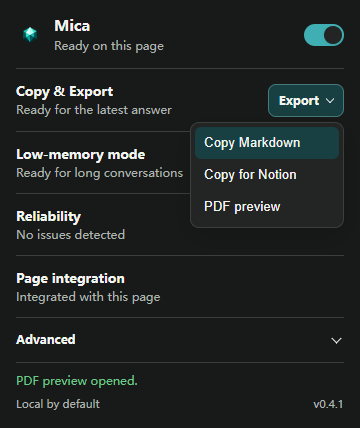
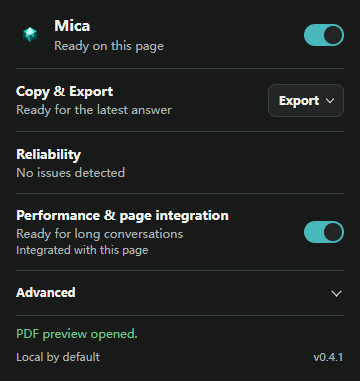
fix: align low-memory popup contract

diff --git a/dist/mica-dev/popup/index.html b/dist/mica-dev/popup/index.html
@@ -38,17 +38,6 @@
 
         <div class="capability-row">
           <div>
-            <h2>Low-memory mode</h2>
-            <p id="lowMemoryStatus">Ready for long conversations.</p>
-          </div>
-          <label class="switch" title="Keep recent turns active in long conversations">
-            <input id="lowMemory" type="checkbox" checked aria-label="Enable low-memory mode">
-            <span aria-hidden="true"></span>
-          </label>
-        </div>
-
-        <div class="capability-row">
-          <div>
             <h2>Reliability</h2>
             <p id="reliabilityStatus">Watching for delivery issues.</p>
           </div>
@@ -56,9 +45,14 @@
 
         <div class="capability-row">
           <div>
-            <h2>Page integration</h2>
-            <p id="integrationStatus">Native handling</p>
+            <h2>Performance &amp; page integration</h2>
+            <p id="lowMemoryStatus">Ready for long conversations.</p>
+            <p id="integrationStatus" class="secondary-status">Native handling</p>
           </div>
+          <label class="switch" title="Keep recent turns active in long conversations">
+            <input id="lowMemory" type="checkbox" checked aria-label="Enable low-memory mode">
+            <span aria-hidden="true"></span>
+          </label>
         </div>
       </section>
 

diff --git a/extension/popup/index.html b/extension/popup/index.html
@@ -38,17 +38,6 @@
 
         <div class="capability-row">
           <div>
-            <h2>Low-memory mode</h2>
-            <p id="lowMemoryStatus">Ready for long conversations.</p>
-          </div>
-          <label class="switch" title="Keep recent turns active in long conversations">
-            <input id="lowMemory" type="checkbox" checked aria-label="Enable low-memory mode">
-            <span aria-hidden="true"></span>
-          </label>
-        </div>
-
-        <div class="capability-row">
-          <div>
             <h2>Reliability</h2>
             <p id="reliabilityStatus">Watching for delivery issues.</p>
           </div>
@@ -56,9 +45,14 @@
 
         <div class="capability-row">
           <div>
-            <h2>Page integration</h2>
-            <p id="integrationStatus">Native handling</p>
+            <h2>Performance &amp; page integration</h2>
+            <p id="lowMemoryStatus">Ready for long conversations.</p>
+            <p id="integrationStatus" class="secondary-status">Native handling</p>
           </div>
+          <label class="switch" title="Keep recent turns active in long conversations">
+            <input id="lowMemory" type="checkbox" checked aria-label="Enable low-memory mode">
+            <span aria-hidden="true"></span>
+          </label>
         </div>
       </section>
 

diff --git a/dist/mica-dev/popup/popup.css b/dist/mica-dev/popup/popup.css
@@ -16,6 +16,7 @@ main { padding:16px; }
 .capability-row { align-items:center; display:flex; gap:12px; justify-content:space-between; min-height:62px; padding:12px 0; }
 .capability-row + .capability-row { border-top:1px solid var(--border); }
 .capability-row h2 { font-size:13px; font-weight:650; line-height:18px; }
+.capability-row .secondary-status { font-size:11px; line-height:15px; }
 .action-menu { flex:0 0 auto; position:relative; }
 .action-menu > summary { background:var(--surface); border:1px solid var(--border); border-radius:8px; cursor:pointer; font-weight:600; list-style:none; min-height:32px; padding:7px 24px 7px 10px; position:relative; }
 .action-menu > summary::-webkit-details-marker { display:none; }

diff --git a/extension/popup/popup.css b/extension/popup/popup.css
@@ -16,6 +16,7 @@ main { padding:16px; }
 .capability-row { align-items:center; display:flex; gap:12px; justify-content:space-between; min-height:62px; padding:12px 0; }
 .capability-row + .capability-row { border-top:1px solid var(--border); }
 .capability-row h2 { font-size:13px; font-weight:650; line-height:18px; }
+.capability-row .secondary-status { font-size:11px; line-height:15px; }
 .action-menu { flex:0 0 auto; position:relative; }
 .action-menu > summary { background:var(--surface); border:1px solid var(--border); border-radius:8px; cursor:pointer; font-weight:600; list-style:none; min-height:32px; padding:7px 24px 7px 10px; position:relative; }
 .action-menu > summary::-webkit-details-marker { display:none; }

diff --git a/dist/mica-dev/popup/popup.js b/dist/mica-dev/popup/popup.js
@@ -121,9 +121,9 @@ function render(status) {
         ? "Full history restored for this conversation"
         : lowMemory?.state === "restore_required"
           ? "Reload when ready to restore full history"
-        : lowMemory?.state === "degraded"
-          ? "Waiting for a safely recognized long thread"
-          : "Ready for long conversations";
+          : lowMemory?.state === "degraded"
+            ? "Waiting for a safely recognized long thread"
+            : "Ready for long conversations";
   document.documentElement.dataset.enabled = active ? "true" : "false";
 }
 

diff --git a/extension/popup/popup.ts b/extension/popup/popup.ts
@@ -121,9 +121,9 @@ function render(status) {
         ? "Full history restored for this conversation"
         : lowMemory?.state === "restore_required"
           ? "Reload when ready to restore full history"
-        : lowMemory?.state === "degraded"
-          ? "Waiting for a safely recognized long thread"
-          : "Ready for long conversations";
+          : lowMemory?.state === "degraded"
+            ? "Waiting for a safely recognized long thread"
+            : "Ready for long conversations";
   document.documentElement.dataset.enabled = active ? "true" : "false";
 }
 

diff --git a/results/mica--product-recovery-current-gpt-ui/test-matrix.md b/results/mica--product-recovery-current-gpt-ui/test-matrix.md
@@ -16,8 +16,8 @@
 | Low-memory focused | `pnpm run test:low-memory` | PASS；短/中/长、data window、DOM fallback、restore、disable、unknown/recent-branch fail-open、typing/IME、connector、send、streaming、scroll | 7.0 s（含 build） |
 | Highlighter focused | `pnpm run test:highlighter` | PASS；SPA route isolation、Escape、Delete、公式不破坏、disable/reenable | 6.6 s（含 build） |
 | Build + unit + product + validator | `pnpm test` | PASS；10 个状态机/隐私 case；serializer；remote-resource stripping；input hot path heavy counters 全 0；manifest/build 通过 | 约 3 s |
-| Actual MV3 extension E2E | `pnpm run test:e2e` | PASS；low-memory、popup、Copy、双 MIME、migration、diagnostic、highlighter、PDF、lifecycle、四异常、18 组 popup matrix | 与同次 `pnpm test` 合计 24.1 s |
-| Stress | `pnpm run test:e2e:stress` | PASS；10 次 reload/remount，最大 78 ms；3 轮 ghost/generation-error；同一全套 E2E 仍通过 | 25.0 s（含 package/PDF 后置步骤） |
+| Actual MV3 extension E2E | `pnpm run test:e2e` | PASS；low-memory、三项 popup 合同、Copy、双 MIME、migration、diagnostic、highlighter、PDF、lifecycle、四异常、18 组 popup matrix | 18.5 s |
+| Stress | `pnpm run test:e2e:stress` | PASS；10 次 reload/remount，最大 78 ms；3 轮 ghost/generation-error；同一全套 E2E 仍通过 | 20.2 s |
 | PDF structure | bundled Python `scripts/verify-research-pdf.py` | PASS；3 页、790 words、精确 inline/display TeX source、7 font resources、0 image XObject、2 highlight rect、0 edge violation | 1.7 s（含目录审计） |
 | Producer visual review | popup light/dark、Troubleshooting、low-memory window、PDF preview | PASS；`PRODUCER_P1=0`、`PRODUCER_P2=0` | 逐图原尺寸目视检查 |
 | Release package | `pnpm run package:release` | PASS；root manifest、必需文件、无 source wrapper/node_modules/log；SHA 一致 | 2.6 s |
@@ -31,10 +31,10 @@
 | received / mounted turns | 240 | 40 | -83.3% |
 | mapping nodes | 241 | 41 | -83.0% |
 | response bytes | 3,033,461 | 505,821 | -83.3% |
-| DOM nodes | 15,637 | 2,646 | -83.1% |
-| JS heap after forced GC | 4,784,376 | 2,712,924 | -43.3% |
-| 120 IME/input cycles | — | 1.2 ms total | <80 ms budget |
-| two-frame scroll exercise | — | 55.0 ms | <250 ms budget |
+| DOM nodes | 15,637 | 2,645 | -83.1% |
+| JS heap after forced GC | 4,784,376 | 2,712,220 | -43.3% |
+| 120 IME/input cycles | — | 0.5 ms total | <80 ms budget |
+| two-frame scroll exercise | — | 42.8 ms | <250 ms budget |
 | composer mutations during interaction | — | 4 | bounded |
 
 恢复与兼容：20 turns 不裁剪；90→40；160-turn DOM fallback→40；`Load full history` 恢复 240；disable+reload 恢复 160；recent branch 与未知 graph fail-open；connector open/close、fixture send 与 27-character streaming mutation 均通过。
@@ -69,17 +69,17 @@
 
 ## 迭代运行说明
 
-本修复迭代的标准完整 E2E 共 4 次：第一次在新增 SPA/keyboard coverage 中 FAIL，定位并修复异步 affordance ownership 与 Escape keyup 重建；第二次 PASS 后，冻结审阅把最近 N 策略从“角色切换”收紧为“每个可见 node”；第三次 PASS 后又补上 fresh-config/expired-cache fail-open，因此前两次 PASS 均失效；第四次在最终 runtime 上 PASS。
+本修复迭代的标准完整 E2E 共 7 次：第一次在新增 SPA/keyboard coverage 中 FAIL，定位并修复异步 affordance ownership 与 Escape keyup 重建；第二次 PASS 后，冻结审阅把最近 N 策略从“角色切换”收紧为“每个可见 node”；第三次 PASS 后又补上 fresh-config/expired-cache fail-open，因此前两次 PASS 均失效；第四次在该 runtime 上 PASS。将 popup 收回原 Goal 的三项合同后，第五次 PASS；证据截图改为默认闭合菜单后，第六次首次命中扩展安装迁移与 baseline 设置竞态，静态审计后增加 schema settle guard；第七次在最终源码与证据 harness 上 PASS。
 
 Low-memory focused 在初始指标阈值校准前有 1 次 harness FAIL；静态检查指标来源后，后续 6 次直接 focused run 均 PASS。完整 E2E 与 stress 也各自重新覆盖了同一 low-memory case。Highlighter focused 的中间 FAIL 分别暴露测试选区漂移、跨 route 异步竞态和 Escape keyup 重建；每类在重复两次前完成静态根因检查。最终 focused、完整 E2E、stress 均 PASS。
 
-最终 runtime 之后只增加截图采集与文档；未为这些非 runtime 变化重复完整 E2E。没有跨 candidate 拼接 PASS，0.4.0 的旧截图、PDF、package 和 reviewer FAIL 不能作为 0.4.1 PASS。
+最终 runtime 后只调整截图默认态、测试启动隔离与文档；完整 E2E 和 stress 均已在这些变化后重跑。没有跨 candidate 拼接 PASS，0.4.0 的旧截图、PDF、package 和 reviewer FAIL 不能作为 0.4.1 PASS。
 
 ```text
 FOCUSED_TESTS=PASS
 AFFECTED_E2E=PASS
 FULL_SUITE=PASS
-FULL_E2E_RUNS_THIS_REPAIR=4
+FULL_E2E_RUNS_THIS_REPAIR=7
 FINAL_FULL_E2E_RUNS=1
 STRESS=PASS
 PERFORMANCE_REGRESSION=PASS

diff --git a/docs/product/MICA_PRODUCT_CONTRACT.md b/docs/product/MICA_PRODUCT_CONTRACT.md
@@ -13,7 +13,7 @@ Mica 是一个本地运行的 Chromium 扩展。它在不接管 ChatGPT、不上
 Popup 是日常控制面，不是调试控制台。结构固定为：
 
 1. 顶部显示 Mica 身份、总开关和当前页是否受支持。
-2. 主体最多显示 4 组能力：`Copy & Export`、`Low-memory mode`、`Reliability`、`Page integration`。
+2. 主体最多显示 3 组能力：`Copy & Export`、`Reliability`、`Performance & page integration`。
 3. 每组只显示用户能理解的当前状态和至多 1 个必要动作。
 4. 高级设置默认收起；开发诊断进入独立 developer/options surface。
 
@@ -53,15 +53,13 @@ Popup 不显示 Atlas、fixture、mock、raw selector、mounted DOM 计数、bui
 
 恢复动作遵守最小风险原则：高置信未提交时可恢复草稿；可能已提交、包含 tool/attachment/connector/授权或外部写入时只提示，不自动重发。第一版不把自动重发作为默认路径。
 
-### Page integration
-
-该区域说明 Mica 是否安全识别当前页面。未知 action cluster 保持 `Native handling`，不猜测插入 Copy 控件。
-
-### Low-memory mode
+### Performance & page integration
 
 超长 conversation 默认只保留最近 40 turns 活跃。优先路径在 ChatGPT 页面消费 conversation mapping 前创建本地裁剪副本，因此同时降低历史 app-state、DOM 与渲染负担；服务器原始 conversation 不被修改。`Load full history` 会为当前路径设置一次会话 bypass 并刷新，关闭 Mica 后刷新也恢复完整历史。
 
 仅处理同源 GET、精确 conversation 路径、可验证的无环 active path。近期 active branch、未知 graph、streaming、dialog、tool/file/auth/connector 等敏感结构 fail-open。DOM fallback 只处理 120+ 个同父级、单一 user/assistant role 的普通 turns；它不保存正文，恢复依赖重新加载服务器历史。
+
+同一能力行也说明 Mica 是否安全识别当前页面。未知 action cluster 保持 `Native handling`，不猜测插入 Copy 控件。低内存状态与页面识别状态共用一个产品层级，但仍保持各自独立的开关和 fail-open 边界。
 
 ### Highlighter
 
@@ -75,9 +73,8 @@ Popup 不显示 Atlas、fixture、mock、raw selector、mounted DOM 计数、bui
 |---|---|---|---|---|
 | Popup header | 总开关 | 支持页 / 非支持页 | 启用或停用 Mica | 只影响 Mica，不改变 ChatGPT 账号设置 |
 | Copy & Export | 能力行 | 可用 / 不可用 / 失败 | 选择输出方式 | clipboard 或本地 PDF 更新 |
-| Low-memory mode | 能力行 | 待命 / 已窗口化 / 完整历史 / fail-open | 减少长对话内存或恢复历史 | 最近 40 turns 活跃；恢复时刷新完整历史 |
 | Reliability | 异常提示 | 有可恢复异常 | 恢复草稿或按安全建议处理 | 不自动跨过授权，不盲目双发 |
-| Page integration | 页面状态 | 已识别 / 原生处理 / 不支持 | 理解当前工作范围 | 未识别时保持原生行为 |
+| Performance & page integration | 能力行 | 待命 / 已窗口化 / 完整历史 / fail-open；已识别 / 原生处理 / 不支持 | 减少长对话内存、恢复历史并理解当前工作范围 | 最近 40 turns 活跃；恢复时刷新完整历史；未识别时保持原生行为 |
 | Highlighter | 选择入口 | 选区可锚定 | 添加或移除高亮 | 只在本机保存 |
 
 最终短文案由 `product-ui-copy` 在实际 viewport 中验证，不能用措辞掩盖产品状态或隐私边界。

diff --git a/results/mica--product-recovery-current-gpt-ui/result.md b/results/mica--product-recovery-current-gpt-ui/result.md
@@ -1,7 +1,7 @@
 # Mica product recovery result
 
 ```text
-STATUS=local_candidate_complete
+STATUS=partial_complete
 READY_FOR_USER_ACCEPTANCE=NO
 READY_FOR_RELEASE=NO
 USER_BLOCK_COUNT=0
@@ -9,7 +9,7 @@ REAL_CHATGPT_SEND_COUNT=0
 BROAD_ATLAS_RUN_COUNT=0
 ```
 
-0.4.1 本地候选已实现低内存窗口化，并修复 0.4.0 独立审查的全部 P1/P2。最终自动化、stress、PDF、生产者视觉与 package 门已通过；冻结 commit 与同一 reviewer 复审尚在本轮后续步骤，因此当前还不向用户发起 HUMAN_ONLY 验收。
+0.4.1 本地候选已实现低内存窗口化，并修复 0.4.0 独立审查的全部 P1/P2。低内存状态已并回冻结合同规定的第三个产品能力项；最终自动化、stress、PDF、生产者视觉与 package 门均已重新通过。新冻结 commit 与同一 reviewer 复审尚在本轮后续步骤，因此当前还不向用户发起 HUMAN_ONLY 验收。
 
 ```text
 LOW_MEMORY_TRUNCATION=PASS
@@ -17,11 +17,11 @@ ACTUAL_TRUNCATION=ACTIVE_BRANCH_MAPPING_AND_SAFE_DOM_FALLBACK
 RECENT_TURNS_KEPT=40
 RESTORE=LOAD_FULL_HISTORY_OR_DISABLE_AND_RELOAD
 MAPPING_BYTES=3033461->505821
-DOM_NODES=15637->2646
-JS_HEAP_AFTER_GC=4784376->2712924
+DOM_NODES=15637->2645
+JS_HEAP_AFTER_GC=4784376->2712220
 CURRENT_CHATGPT_EXTRA_VALUE=DATA_AND_APP_STATE_WINDOWING_BEFORE_RENDER
 CURRENT_AUTHENTICATED_BINDING=PENDING_HUMAN_ONLY
-PACKAGE_SHA256=7b99a3609ad041aa4e055911dd8ebf8ab5acf4f74f84fecd75e963c21061a48f
+PACKAGE_SHA256=afc90cfd6c05cf789b0566cfa9d100e2057570e907acc46fe71e3188d6633a7e
 ```
 
 ## 当前硬边界

diff --git a/docs/investigations/2026-10-05-long-thread-product-conclusion.md b/docs/investigations/2026-10-05-long-thread-product-conclusion.md
@@ -20,8 +20,8 @@ Native virtualization can reduce mounted DOM while the client still owns the com
 | Visible/mounted turns | 240 | 40 | -83.3% |
 | Mapping nodes delivered to the fixture app | 241 | 41 | -83.0% |
 | Conversation response bytes | 3,033,461 | 505,821 | -83.3% |
-| DOM nodes | 15,637 | 2,646 | -83.1% |
-| JS heap after forced GC | 4,784,376 | 2,712,924 | -43.3% |
+| DOM nodes | 15,637 | 2,645 | -83.1% |
+| JS heap after forced GC | 4,784,376 | 2,712,220 | -43.3% |
 
 This is additional client-state and heap reduction, not a mounted-turn counter presented as an optimization. The exact current authenticated ChatGPT binding remains part of the one final HUMAN_ONLY report; release remains closed until that report confirms the live path is active or yields evidence for a safe repair.
 
@@ -35,7 +35,7 @@ This is additional client-state and heap reduction, not a mounted-turn counter p
 - stale or missing extension configuration: wait for a fresh bridge event; an expired cache fails open;
 - full-history action: reload restores all 240 turns;
 - disable + reload: restores all 160 DOM-fallback turns;
-- 120 IME/input cycles: 1.2 ms in the final candidate run, with no synchronous broad query/clone/geometry/style work;
+- 120 IME/input cycles: 0.5 ms in the final candidate run, with no synchronous broad query/clone/geometry/style work;
 - connector open/close, one fixture send, 27-character streaming mutation and scroll-frame check pass;
 - stress: 10 reload cycles and 3 anomaly cycles pass.
 

diff --git a/README.md b/README.md
@@ -41,12 +41,11 @@ pnpm run build
 
 ## 日常使用
 
-Popup 只保留四个产品层级：
+Popup 只保留三个产品层级：
 
 - **Copy & Export**：复制 Markdown、复制到 Notion、打开 PDF 预览；
-- **Low-memory mode**：超长 conversation 只保留最近 40 turns 活跃，并提供完整历史恢复入口；
 - **Reliability**：正常时保持安静，只在高置信异常时给出一个安全动作；
-- **Page integration**：说明当前页面是已验证集成还是保持原生处理。
+- **Performance & page integration**：超长 conversation 只保留最近 40 turns 活跃，并说明当前页面是已验证集成还是保持原生处理；需要时可恢复完整历史。
 
 选择 assistant answer 中的正文后，Mica 会显示一个短暂的 `Highlight` 入口。高亮只保存在当前浏览器的本地存储中；找不到唯一位置时不会猜测恢复。
 

diff --git a/results/mica--product-recovery-current-gpt-ui/MANIFEST.md b/results/mica--product-recovery-current-gpt-ui/MANIFEST.md
@@ -13,5 +13,5 @@
 | `independent-review.md` | old candidate FAIL; 0.4.1 pending | 待冻结 commit |
 | `visual-evidence/` | PASS | 0.4.1 local candidate |
 | `pdf-evidence/` | PASS | 0.4.1 |
-| `release-evidence/0.4.1-local-package.md` | PASS | 0.4.1 / `7b99a36…` |
-| `result.md` | `local_candidate_complete` | 0.4.1 pre-review candidate |
+| `release-evidence/0.4.1-local-package.md` | PASS | 0.4.1 / `afc90cf…` |
+| `result.md` | `partial_complete` | 0.4.1 pre-review candidate |
